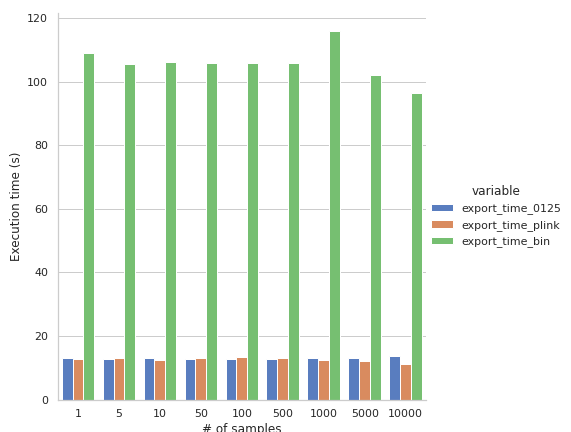
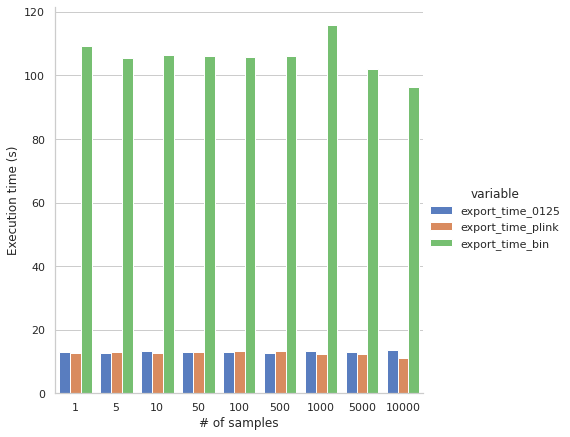
Fix saving export figure (bar chart)

Changed region(s): [[0.0298, 0.0, 0.9842, 1.0], [0.0, 0.331, 0.0298, 0.6019]]

diff --git a/experiment_graphs.py b/experiment_graphs.py
@@ -557,7 +557,7 @@ snsplot = sns.catplot(
 )
 
 snsplot = snsplot.set_axis_labels("# of samples", "Execution time (s)")
-plt.savefig(graph_dir + "experiment2_export_times.png")
+snsplot.savefig(graph_dir + "experiment2_export_times.png")
 plt.draw()
 
 # %% [markdown]
@@ -637,7 +637,7 @@ snsplot = sns.catplot(
 )
 
 snsplot = snsplot.set_axis_labels("# of samples", "Execution time (s)")
-plt.savefig(graph_dir + "experiment2_export_times_bin.png")
+snsplot.savefig(graph_dir + "experiment2_export_times_bin.png")
 plt.draw()
 
 # %% [markdown]
